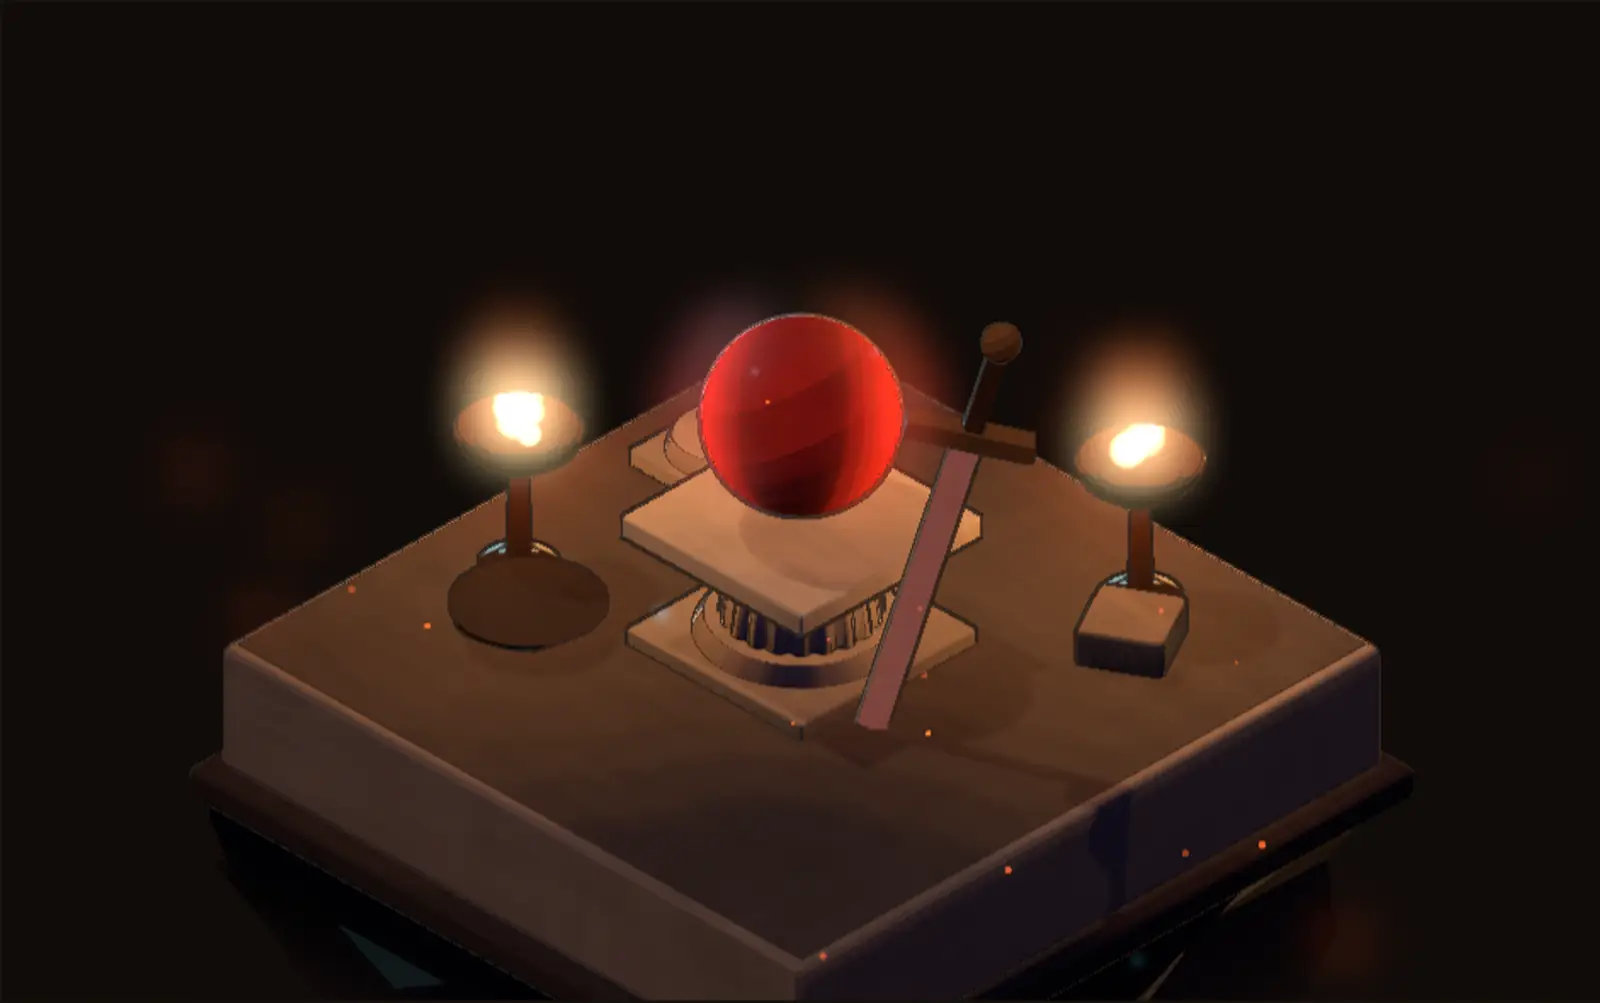
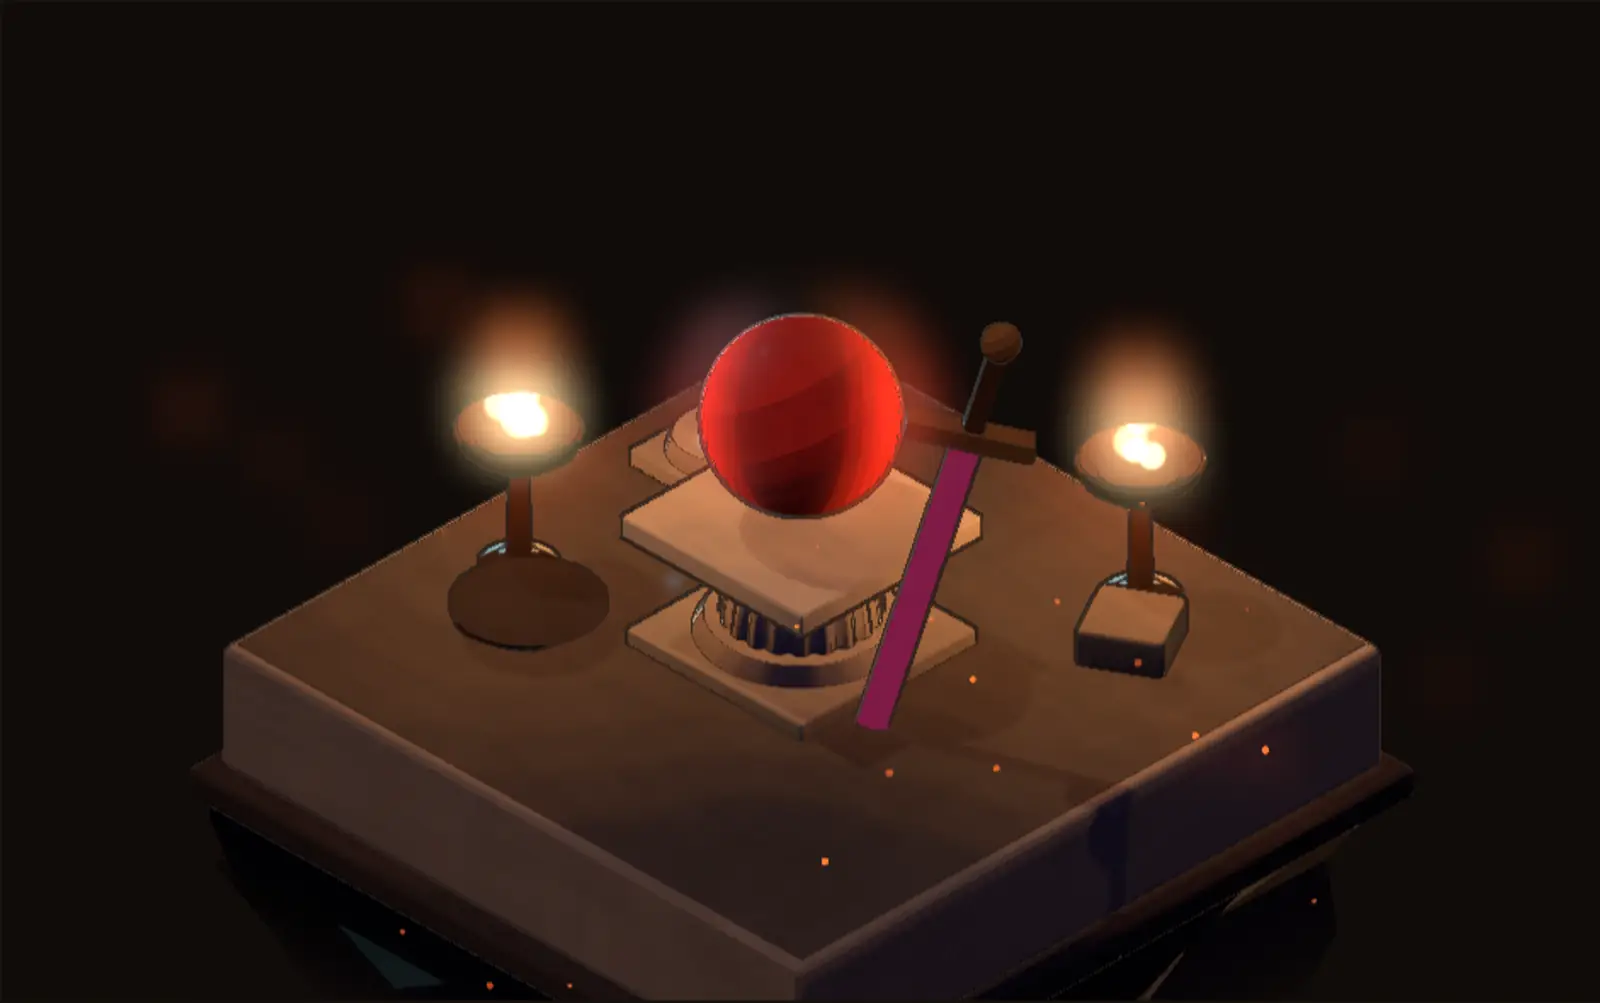
Email beside Book a call: Email in the dock (src=dock) and its menu (src=menu), a quiet line under the /cal embed (src=cal), the blog nav key as a plain mailto; 404 copy on a flat ink panel, no overlap; --dim opaque at 4.5:1 or better; break poster with Blade Ball's pink blade

diff --git a/src/styles/ds.css b/src/styles/ds.css
@@ -15,7 +15,7 @@
 
   --bg: var(--ground);
   --fg: var(--ink);
-  --dim: rgb(11 11 11 / 0.64);
+  --dim: #55544f;
   --rule: rgb(11 11 11 / 0.14);
 
   --u: calc(min(100vw, 1920px) / 480);
@@ -67,7 +67,7 @@ html:has(.ds), html:has(.ds) body { margin: 0; -webkit-text-size-adjust: 100%; }
 
 html:has(.ds) { background: #e6e5e1; color-scheme: light; }
 html[data-room="ink"]:has(.ds) { background: #0b0b0b; }
-html[data-room="ink"] .ds { --bg: #0b0b0b; --fg: #e6e5e1; --dim: rgb(230 229 225 / 0.6); --rule: rgb(230 229 225 / 0.16); --tile: #1b1b1a; }
+html[data-room="ink"] .ds { --bg: #0b0b0b; --fg: #e6e5e1; --dim: #a3a29d; --rule: rgb(230 229 225 / 0.16); --tile: #1b1b1a; }
 .ds ::selection { background: var(--ember); color: var(--ink); }
 .ds a { color: inherit; text-decoration: none; }
 .ds :focus-visible { outline: 2px solid var(--ember); outline-offset: 3px; }
@@ -449,6 +449,7 @@ html[data-room="ink"] .cursor[data-mode="view"] .cursor-dot span { color: var(--
 .cal-mail { padding: 12px var(--g) 0; font: 700 15px/1.4 var(--f-bar); letter-spacing: -0.02em; color: var(--dim); }
 .cal-mail a { color: var(--ink); text-decoration: underline; text-underline-offset: 3px; }
 .cal-mail a:hover { color: var(--ember); }
+.cal-alt { padding-bottom: calc(10 * var(--u)); }
 @media (max-width: 767px) {
   .cal-bar { height: 44px; gap: 10px; }
   .cal-h { padding: 0 10px; }
@@ -463,8 +464,9 @@ html[data-room="ink"] .cursor[data-mode="view"] .cursor-dot span { color: var(--
 
 /* ── 404 ── */
 .lost { padding-top: 0; }
-.lost-h { margin: 6px 0 0; font: 700 max(64px, calc(40 * var(--u)))/0.86 var(--f-disp); letter-spacing: -0.05em; color: #f1e6d2; animation: up 700ms var(--ease) both; }
-.lost-line { margin: 18px 0 0; max-width: 22em; font: 700 max(20px, calc(7 * var(--u)))/1.05 var(--f-sans); letter-spacing: -0.025em; color: #f1e6d2; animation: up 700ms 80ms var(--ease) both; }
+.lost-h { margin: 8px 0 0; font: 700 max(64px, calc(36 * var(--u)))/0.96 var(--f-disp); letter-spacing: -0.05em; color: #f1e6d2; animation: up 700ms var(--ease) both; }
+.lost-line { margin: calc(4 * var(--u) + 10px) 0 0; max-width: 22em; font: 700 max(20px, calc(7 * var(--u)))/1.05 var(--f-sans); letter-spacing: -0.025em; color: #f1e6d2; animation: up 700ms 80ms var(--ease) both; }
+.lost-copy { justify-self: start; max-width: min(720px, 100%); padding: 22px 26px 26px; background: #100b09; }
 .lost-k { margin: 0; font: 700 15px/1 var(--f-bar); color: rgb(241 230 210 / 0.72); }
 .lost-ways { display: flex; flex-wrap: wrap; gap: 10px; margin-top: 28px; }
 .lost-ways a { display: inline-flex; align-items: center; min-height: 48px; padding: 0 20px; background: #f1e6d2; color: #100b09; font: 700 17px/1 var(--f-bar); letter-spacing: -0.02em; transition: background-color var(--t-fast), scale var(--t-press) var(--ease); }
@@ -541,7 +543,7 @@ html[data-room="ink"] .cursor[data-mode="view"] .cursor-dot span { color: var(--
 
 /* ── The gallery is the hall's second room: the page darkens to the same warm ink as you walk into it ── */
 html[data-room="hall"]:has(.ds) { background: #17120e; }
-html[data-room="hall"] .ds { --bg: #17120e; --fg: #e6e5e1; --dim: rgb(230 229 225 / 0.6); --rule: rgb(181 131 63 / 0.35); --tile: #221b16; }
+html[data-room="hall"] .ds { --bg: #17120e; --fg: #e6e5e1; --dim: #a3a29d; --rule: rgb(181 131 63 / 0.35); --tile: #221b16; }
 html[data-room="hall"] .bar.ink { color: var(--ink); }
 html[data-room="hall"] .bar.ink::before { background: var(--ground); }
 .ads-home { padding-bottom: calc(10 * var(--u)); }

diff --git a/src/app/(site)/cal/page.tsx b/src/app/(site)/cal/page.tsx
@@ -2,6 +2,7 @@ import type { Metadata } from "next";
 import Image from "next/image";
 import Link from "next/link";
 import { CalInline } from "@/components/ds/CalInline";
+import { MailLink } from "@/components/MailLink";
 import { CalMoment } from "@/components/moments/cal";
 import { SITE } from "@/content/site";
 import { meta } from "@/lib/seo";
@@ -28,15 +29,19 @@ export default async function Cal({ searchParams }: Props) {
         <span>Free</span>
       </header>
       <p className="cal-mail">
-        Rather write? <a href={"mailto:" + SITE.email + "?subject=Project"}>{SITE.email}</a>
-        <span aria-hidden="true"> · </span>
+        Calendar not loading?{" "}
         <a href={"https://cal.com/jawad-jalal-hesqbk/15min?src=" + src} target="_blank" rel="noopener">
           Open on Cal.com ↗
         </a>
       </p>
       <div className="cal-row">
-        <div className="cal-embed">
-          <CalInline email={SITE.email} theme="light" />
+        <div>
+          <div className="cal-embed">
+            <CalInline email={SITE.email} theme="light" />
+          </div>
+          <p className="cal-mail cal-alt">
+            Rather write? <MailLink src="cal" />
+          </p>
         </div>
         <CalMoment />
       </div>

diff --git a/src/components/NavEmail.tsx b/src/components/NavEmail.tsx
@@ -1,21 +1,16 @@
 "use client";
 
-// The quiet second action in the bar, a soft key beside Book a call. The
-// envelope sits on a small paper tile; on phones the tile alone carries it. It
-// stays a real mailto in the markup, so with no script it still reaches him.
+// The quiet second action in the bar, a soft key beside Book a call: a plain mailto, counted as email_open from the blog
+// nav. The envelope sits on a small paper tile; on phones the tile alone carries it.
 
 import { Obj } from "./Obj";
-import { openContact } from "./contact";
-import { IDENTITY } from "@/lib/profile";
+import { MAIL, trackEmail } from "./MailLink";
 
 export function NavEmail() {
   return (
     <a
-      href={`mailto:${IDENTITY.email}`}
-      onClick={(e) => {
-        e.preventDefault();
-        openContact();
-      }}
+      href={MAIL}
+      onClick={() => trackEmail("blog-nav")}
       data-cur="say hi"
       aria-label="Send an email"
       className="key key-soft h-9 gap-2 px-1.5 text-[14px] sm:pr-3"

diff --git a/src/components/ds/Dock.tsx b/src/components/ds/Dock.tsx
@@ -5,6 +5,7 @@ import Link from "next/link";
 import { usePathname, useSearchParams } from "next/navigation";
 import { Suspense, useEffect, useState } from "react";
 import { BookLink } from "@/components/BookLink";
+import { MailLink } from "@/components/MailLink";
 import { NAV, SITE } from "@/content/site";
 
 function Nav({ onPick, list }: { onPick?: () => void; list?: boolean }) {
@@ -25,6 +26,16 @@ function Nav({ onPick, list }: { onPick?: () => void; list?: boolean }) {
         );
         return list ? <li key={n.href}>{link}</li> : link;
       })}
+      {list ? (
+        <li>
+          <MailLink src="dock">Email</MailLink>
+        </li>
+      ) : (
+        <MailLink src="menu">
+          Email
+          <span className="lbl dim" aria-hidden="true">↗</span>
+        </MailLink>
+      )}
     </>
   );
 }

diff --git a/src/components/moments/notfound.tsx b/src/components/moments/notfound.tsx
@@ -4,6 +4,6 @@ import { Moment } from "./Moment";
 /** The 404: a corridor that caved in, one fire lit, a signpost; the page's way back is laid over it. */
 export const LostMoment = ({ children }: { children: ReactNode }) => (
   <Moment set="deadend" first className="mo-lost">
-    {children}
+    <div className="lost-copy">{children}</div>
   </Moment>
 );
